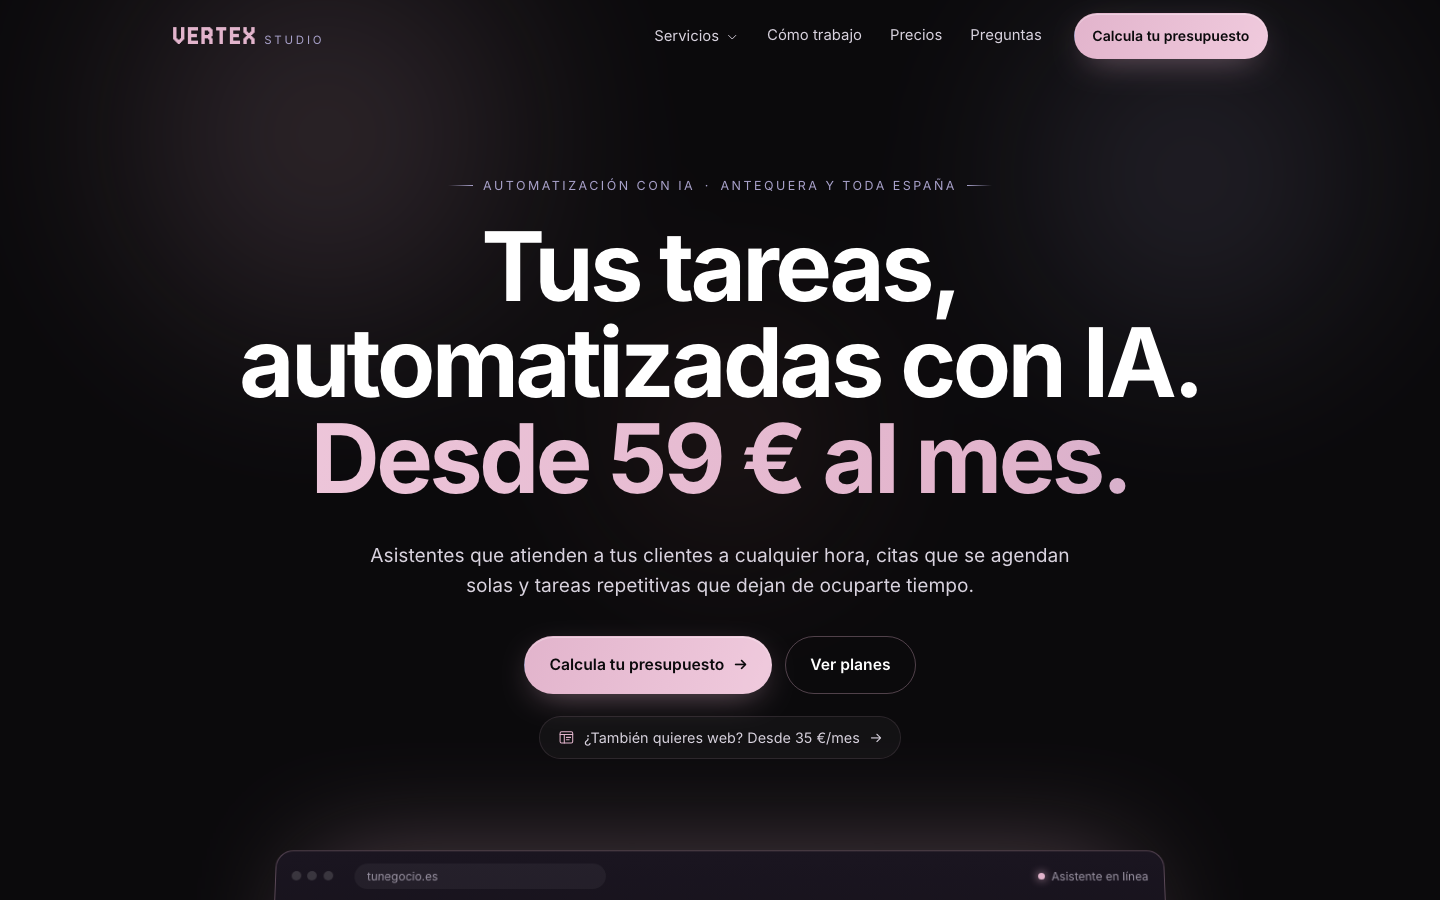
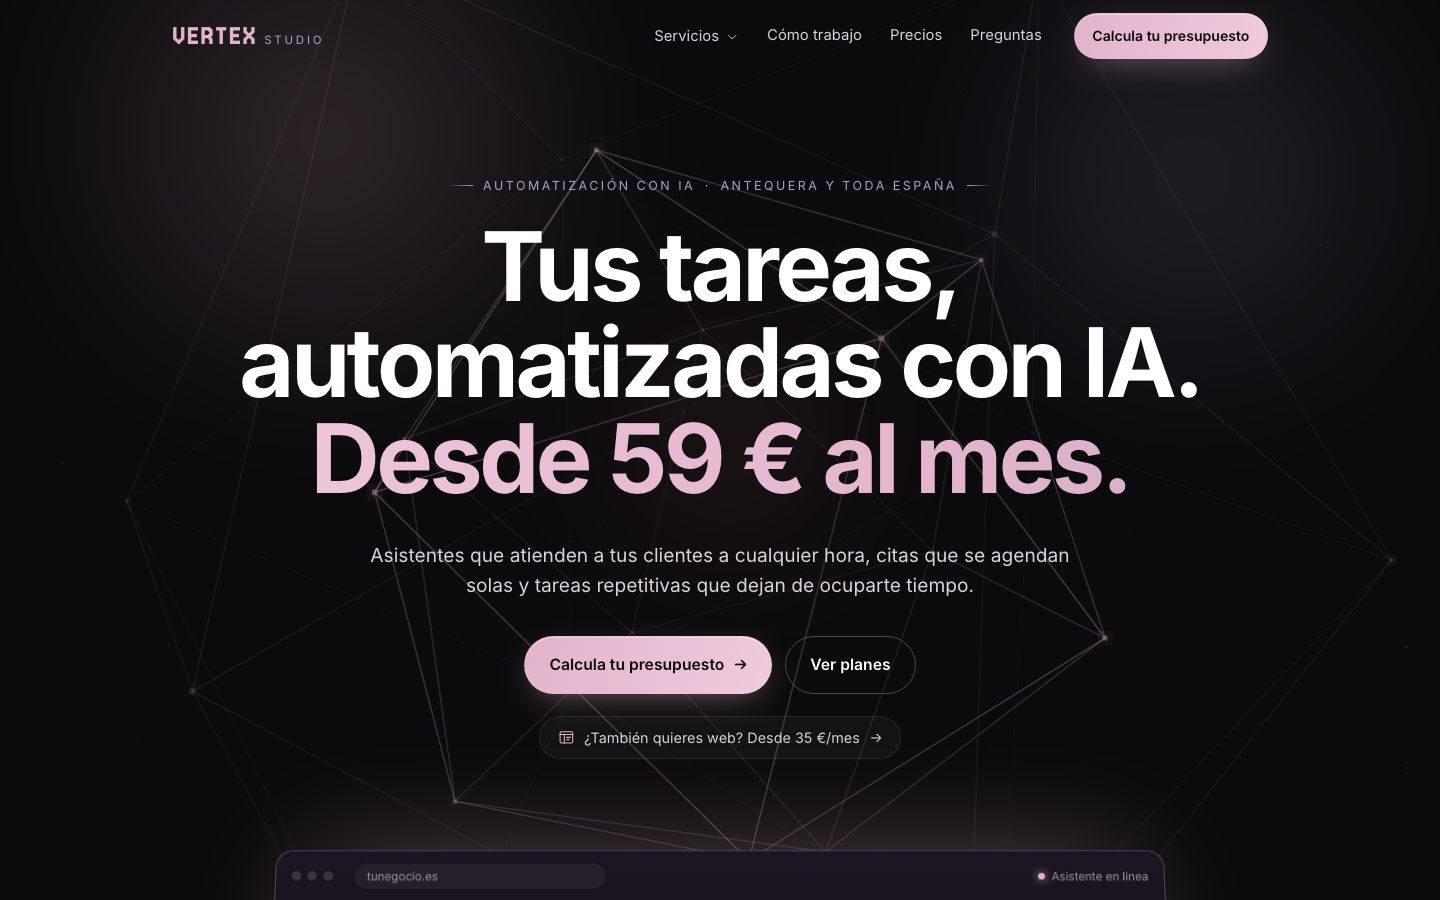
Vertex: tercera captura con el chat del asistente
La galería admite una captura opcional de detalle (detail.png) y el script
la saca recortando el elemento con margen, porque la maqueta está inclinada en 3D.

diff --git a/scripts/screenshots.ts b/scripts/screenshots.ts
@@ -12,6 +12,12 @@ export const screenshotTargets = projects.flatMap((project) =>
     : [],
 );
 
+// Close-ups of one element, saved as detail.png next to the other captures.
+// Vertex: the CSS-only chat mock-up under the hero.
+export const detailTargets = [
+  { slug: 'vertex-studio', selector: '.maqueta' },
+] as const;
+
 export const viewports = [
   { name: 'desktop', width: 1440, height: 900 },
   { name: 'mobile', width: 390, height: 844 },
@@ -69,6 +75,56 @@ export async function captureScreenshots(): Promise<void> {
         } finally {
           await context.close();
         }
+      }
+    }
+    for (const { slug, selector } of detailTargets) {
+      const target = screenshotTargets.find((entry) => entry.slug === slug);
+      if (!target) continue;
+      const context = await browser.newContext({
+        viewport: { width: 1440, height: 900 },
+        deviceScaleFactor: 2,
+        colorScheme: 'light',
+        reducedMotion: 'reduce',
+        locale: 'es-ES',
+      });
+      try {
+        const page = await context.newPage();
+        const response = await page.goto(target.url, {
+          waitUntil: 'load',
+          timeout: 60_000,
+        });
+        if (!response?.ok()) {
+          throw new Error(
+            `Cannot capture ${target.url}: HTTP ${response?.status()}`,
+          );
+        }
+        const path = fileURLToPath(
+          new URL(`../src/assets/projects/${slug}/detail.png`, import.meta.url),
+        );
+        // The mock-up is tilted in 3D, so a tight element capture clips its
+        // corners: capture its box plus a margin of page background instead.
+        // fullPage would resize the viewport and move the hero (it is sized in
+        // vh units), so bring the element into view and clip the viewport.
+        const element = page.locator(selector);
+        await element.scrollIntoViewIfNeeded();
+        const box = await element.boundingBox();
+        if (!box) throw new Error(`Cannot find ${selector} on ${target.url}`);
+        const margin = 24;
+        await page.screenshot({
+          path,
+          animations: 'disabled',
+          caret: 'hide',
+          timeout: 30_000,
+          clip: {
+            x: Math.max(0, box.x - margin),
+            y: Math.max(0, box.y - margin),
+            width: box.width + margin * 2,
+            height: box.height + margin * 2,
+          },
+        });
+        console.log(`Saved ${slug}/detail.png (${selector})`);
+      } finally {
+        await context.close();
       }
     }
   } finally {

diff --git a/tests/unit/screenshots.test.ts b/tests/unit/screenshots.test.ts
@@ -1,14 +1,23 @@
 import { afterEach, beforeEach, describe, expect, test, vi } from 'vitest';
 
 const mocks = vi.hoisted(() => {
+  const element = { boundingBox: vi.fn(), scrollIntoViewIfNeeded: vi.fn() };
   const page = {
     goto: vi.fn(),
     evaluate: vi.fn(),
     screenshot: vi.fn(),
+    locator: vi.fn(),
   };
   const context = { newPage: vi.fn(), close: vi.fn() };
   const browser = { newContext: vi.fn(), close: vi.fn() };
-  return { page, context, browser, launch: vi.fn(), mkdir: vi.fn() };
+  return {
+    element,
+    page,
+    context,
+    browser,
+    launch: vi.fn(),
+    mkdir: vi.fn(),
+  };
 });
 vi.mock('@playwright/test', () => ({ chromium: { launch: mocks.launch } }));
 vi.mock('node:fs/promises', () => ({ mkdir: mocks.mkdir }));
@@ -26,6 +35,13 @@ describe('Manual screenshots', () => {
     mocks.browser.newContext.mockResolvedValue(mocks.context);
     mocks.context.newPage.mockResolvedValue(mocks.page);
     mocks.page.goto.mockResolvedValue({ ok: () => true, status: () => 200 });
+    mocks.page.locator.mockReturnValue(mocks.element);
+    mocks.element.boundingBox.mockResolvedValue({
+      x: 100,
+      y: 700,
+      width: 900,
+      height: 400,
+    });
   });
 
   afterEach(() => vi.restoreAllMocks());
@@ -44,8 +60,18 @@ describe('Manual screenshots', () => {
   test('writes desktop and mobile PNGs at the required dimensions and closes resources', async () => {
     await captureScreenshots();
     expect(mocks.mkdir).toHaveBeenCalledTimes(3);
-    expect(mocks.page.screenshot).toHaveBeenCalledTimes(6);
-    expect(mocks.context.close).toHaveBeenCalledTimes(6);
+    expect(mocks.page.screenshot).toHaveBeenCalledTimes(7);
+    // Six viewport captures plus the Vertex chat close-up.
+    expect(mocks.context.close).toHaveBeenCalledTimes(7);
+    expect(mocks.page.locator).toHaveBeenCalledWith('.maqueta');
+    expect(mocks.page.screenshot).toHaveBeenLastCalledWith(
+      expect.objectContaining({
+        path: expect.stringContaining(
+          '/src/assets/projects/vertex-studio/detail.png',
+        ),
+        clip: { x: 76, y: 676, width: 948, height: 448 },
+      }),
+    );
     expect(mocks.browser.close).toHaveBeenCalledOnce();
     for (const [index, target] of screenshotTargets.entries()) {
       for (const [offset, name, width, height] of [

diff --git a/src/i18n/ui.ts b/src/i18n/ui.ts
@@ -26,6 +26,7 @@ export const ui = {
     screenshots: 'Screenshots',
     desktop: 'Desktop view',
     mobile: 'Mobile view',
+    detail: 'Close-up',
     architecture: 'Architecture',
     backToProjects: 'Back to projects',
     notFoundTitle: 'Page not found',
@@ -63,6 +64,7 @@ export const ui = {
     screenshots: 'Capturas',
     desktop: 'Vista de escritorio',
     mobile: 'Vista móvil',
+    detail: 'Detalle',
     architecture: 'Arquitectura',
     backToProjects: 'Volver a proyectos',
     notFoundTitle: 'Página no encontrada',

diff --git a/tests/e2e/projects.spec.ts b/tests/e2e/projects.spec.ts
@@ -94,7 +94,7 @@ for (const lang of ['en', 'es'] as const) {
         await expect(svg).toHaveAccessibleDescription(diagram.description);
         await expect(article.locator('img')).toHaveCount(0);
       } else if (project.media === 'screenshots') {
-        const available = (['desktop', 'mobile'] as const).filter((viewport) =>
+        const available = (['desktop', 'mobile', 'detail'] as const).filter((viewport) =>
           existsSync(
             new URL(
               `../../src/assets/projects/${project.slug}/${viewport}.png`,

diff --git a/src/styles/global.css b/src/styles/global.css
@@ -475,6 +475,12 @@
       animation-timeline: view();
       animation-range: entry 10% cover 40%;
     }
+
+    .gallery .detail {
+      animation: rise-in linear both;
+      animation-timeline: view();
+      animation-range: entry 0% entry 100%;
+    }
   }
 }
 
